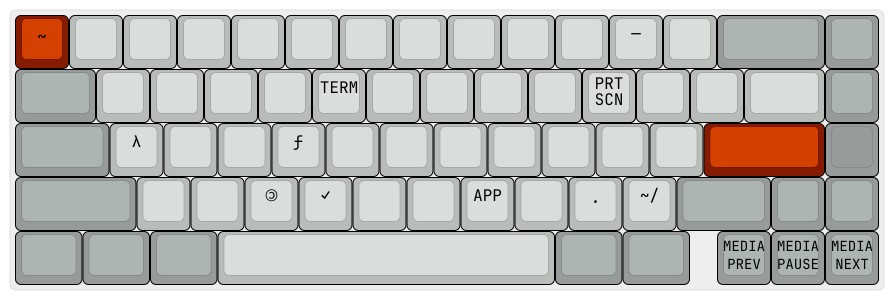
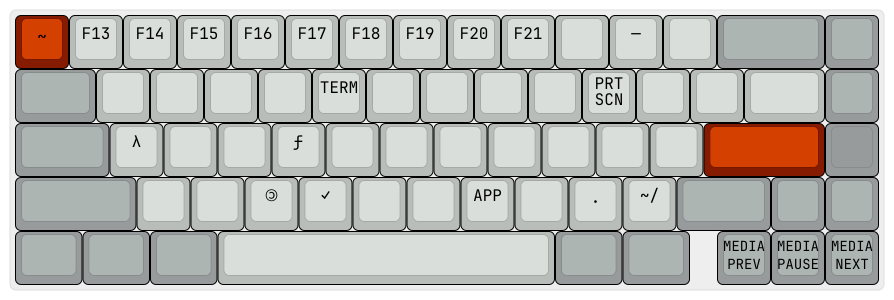
feat: configure number row (1->0) as F13->F22 on layer 2

diff --git a/massdrop-alt/keymap.c b/massdrop-alt/keymap.c
@@ -58,7 +58,7 @@ const uint16_t PROGMEM keymaps[][MATRIX_ROWS][MATRIX_COLS] = {
         KC_TRNS, KC_TRNS, KC_TRNS,                            KC_TRNS,                            KC_TRNS, KC_TRNS, KC_TRNS, KC_TRNS, KC_TRNS  \
     ),
     [2] = LAYOUT(
-        KC_TILDE, KC_TRNS, KC_TRNS, KC_TRNS, KC_TRNS, KC_TRNS, KC_TRNS, KC_TRNS, KC_TRNS, KC_TRNS, KC_TRNS, X(EMDASH), KC_TRNS, KC_TRNS, KC_TRNS,
+        KC_TILDE, KC_F13, KC_F14, KC_F15, KC_F16, KC_F17, KC_F18, KC_F19, KC_F20, KC_F21, KC_F22, X(EMDASH), KC_TRNS, KC_TRNS, KC_TRNS,
         KC_TRNS, KC_TRNS,  KC_TRNS, KC_TRNS, X(CRAB), CMD_TERMINAL, KC_TRNS, X(PENGUIN), KC_TRNS, KC_TRNS, LALT(KC_PSCR), KC_TRNS, KC_TRNS, KC_TRNS, KC_TRNS, \
         KC_TRNS, X(SML_LAMBDA), X(SNEK), KC_TRNS, X(HOOKF), KC_TRNS, KC_TRNS, KC_TRNS, KC_TRNS, KC_TRNS, KC_TRNS, KC_TRNS,          KC_TRNS, KC_TRNS, \
         KC_TRNS, KC_TRNS, KC_TRNS, X(COPYLEFT), UC(CHECKMARK), KC_TRNS, KC_TRNS, KC_APP, KC_TRNS, X(MIDDLEDOT), CMD_HOME, KC_TRNS,          KC_TRNS, KC_TRNS, \
